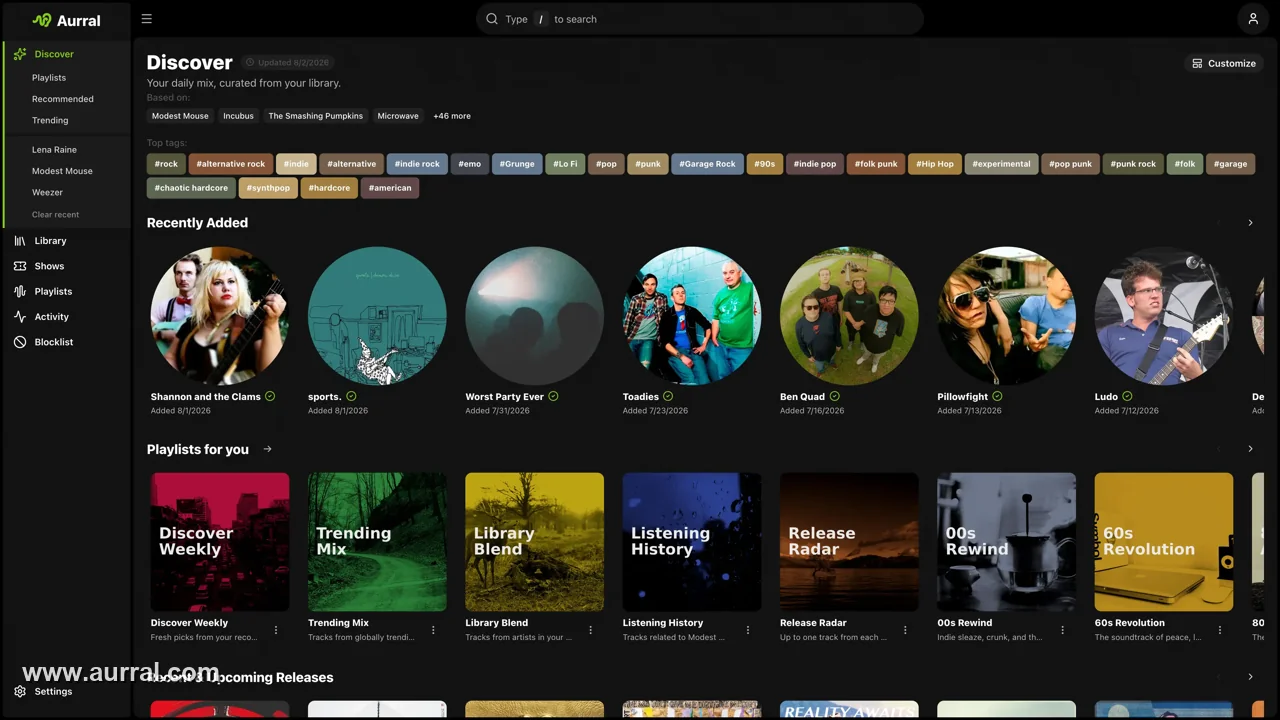
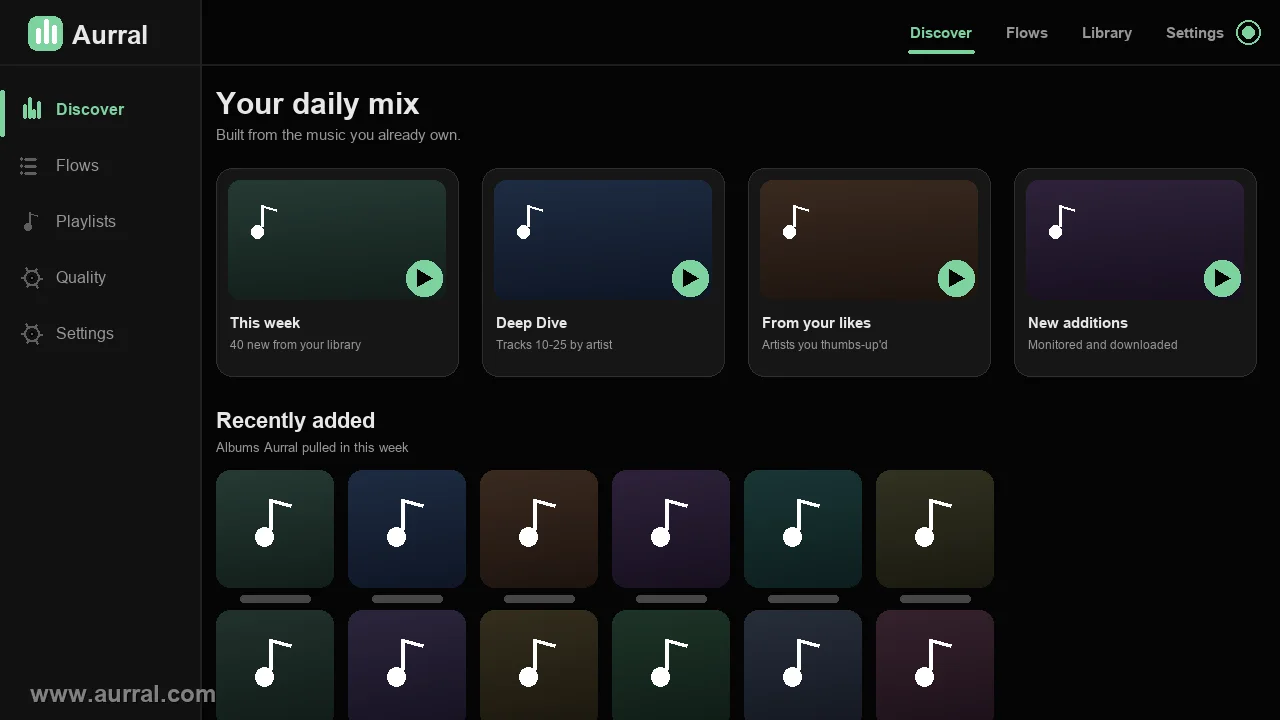
Replace aurral.org screenshots with original artwork
- discover.webp / playback.webp are now fully original mockups drawn
  programmatically: original logo mark, original integration icons,
  original gradient thumbnails. No aurral.org UI elements remain.
- Update playback image alt text to match new artwork.
- gitignore the generated sitemap.xml copy (source of truth stays
  app/sitemap.ts).

diff --git a/app/page.tsx b/app/page.tsx
@@ -253,8 +253,8 @@ export default function Home() {
           </p>
           <figure className="mt-8 overflow-hidden rounded-xl border border-[#ffffff14] bg-surface shadow-[0_20px_60px_-30px_rgba(0,0,0,0.8)]">
             <img
-              src="/screenshots/playback.webp"
-              alt="Aurral artist page showing popular tracks with Add to Lidarr buttons, tag filters and an Aurral pick"
+            src="/screenshots/playback.webp"
+            alt="Aurral connected services panel showing integration status for a music library, download client, playback server and listening history, with a now-playing flow and its upcoming tracks"
               width={1280}
               height={720}
               loading="lazy"
